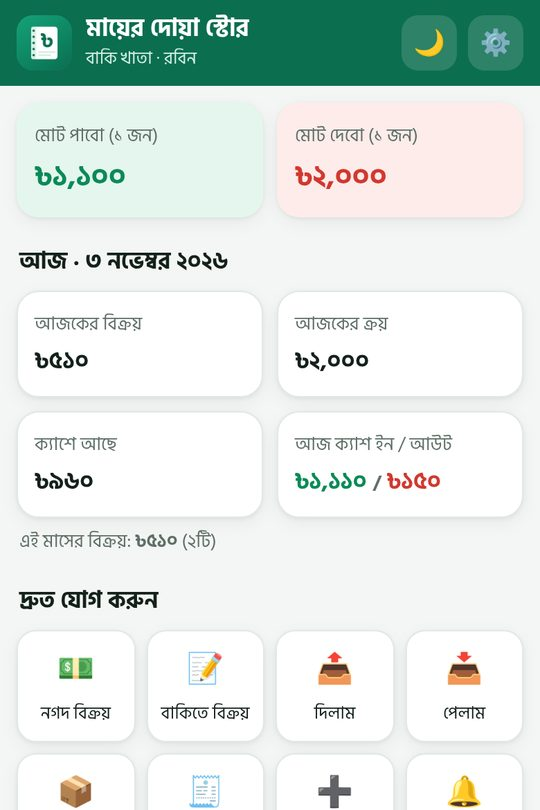
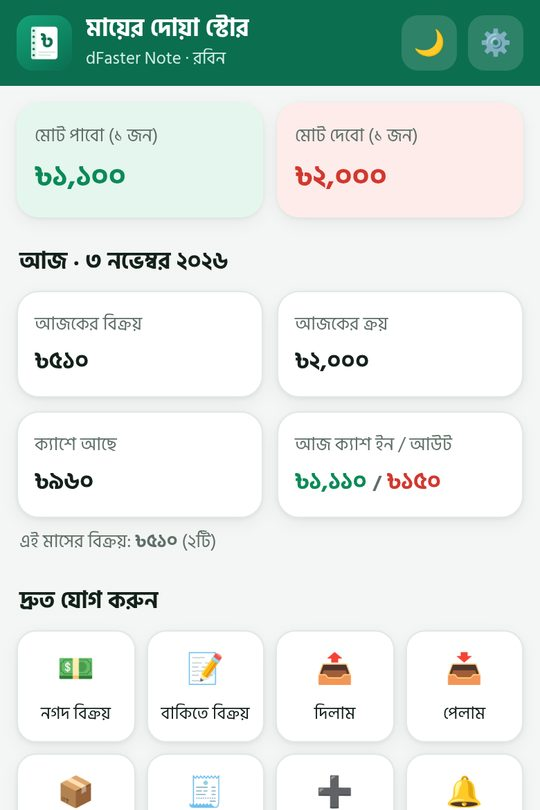
Rename Baki Khata card to dFaster Note; mention login + cloud sync

diff --git a/script.js b/script.js
@@ -24,8 +24,8 @@ const BN = {
   "work.live": "লাইভ সাইট দেখুন", "work.code": "সোর্স কোড",
   "work2.badge": "নতুন · Android অ্যাপ", "work2.t": "নামাজের সময়, কুরআন ও হাদিস", "work2.apk": "APK ডাউনলোড",
   "work2.p": "বাংলা নামাজ অ্যাপ: ৬৪ জেলার ওয়াক্তের লাইভ সময়, প্রতি ওয়াক্তে পূর্ণ আযানের অডিও, সম্পূর্ণ কুরআন (১১৪ সূরা বাংলা অর্থ ও তেলাওয়াতসহ), নামাজ বিষয়ক ১,৫০০+ সহীহ হাদিস, আর কোন সময় কোন সূরা পড়বেন তার গাইড। অফলাইনেও চলে।",
-  "work3.badge": "নতুন · Android অ্যাপ", "work3.t": "বাকি খাতা — দোকানের ডিজিটাল হিসাব",
-  "work3.p": "টালি খাতার মতো বাংলা হিসাব অ্যাপ: কাস্টমার ও সাপ্লায়ারের বাকি, নগদ/বাকি বেচাকেনা, খরচসহ দৈনিক ক্যাশবক্স, PDF রিপোর্ট, আর SMS বা WhatsApp-এ বাকির তাগাদা। PIN লক ও ব্যাকআপ। পুরোপুরি অফলাইনে চলে।",
+  "work3.badge": "নতুন · Android অ্যাপ", "work3.t": "dFaster Note — দোকানের ডিজিটাল হিসাব",
+  "work3.p": "টালি খাতার মতো বাংলা হিসাব অ্যাপ: কাস্টমার ও সাপ্লায়ারের বাকি, নগদ/বাকি বেচাকেনা, খরচসহ দৈনিক ক্যাশবক্স, PDF রিপোর্ট, আর SMS বা WhatsApp-এ বাকির তাগাদা। ফোন নম্বর + পাসওয়ার্ড বা Google দিয়ে লগইন, ক্লাউড সিঙ্ক — নতুন ফোনে লগইন করলেই সব হিসাব ফিরে আসে। অফলাইনেও চলে।",
   "ct.k": "যোগাযোগ", "ct.h": "চলুন আপনার পরের ওয়েবসাইটটা বানাই", "ct.p": "আপনার প্রজেক্টের কথা WhatsApp-এ জানান। সাধারণত দ্রুত উত্তর দিই।", "ct.wa": "WhatsApp",
   "foot": "ওয়েব ডেভেলপার, বাংলাদেশ", "top": "উপরে যান ↑"
 };

diff --git a/index.html b/index.html
@@ -202,19 +202,19 @@
           </div>
         </article>
         <article class="project rv">
-          <a class="project__shot" href="https://dfaster.com/bakikhata/" target="_blank" rel="noopener" aria-label="Open Baki Khata app page">
+          <a class="project__shot" href="https://dfaster.com/bakikhata/" target="_blank" rel="noopener" aria-label="Open dFaster Note app page">
             <div class="phone">
               <picture>
                 <source srcset="img/bakikhata-app.webp" type="image/webp" />
-                <img src="img/bakikhata-app.jpg" width="540" height="810" alt="Baki Khata shop ledger app screenshot" loading="lazy" decoding="async" />
+                <img src="img/bakikhata-app.jpg" width="540" height="810" alt="dFaster Note shop ledger app screenshot" loading="lazy" decoding="async" />
               </picture>
             </div>
           </a>
           <div class="project__body">
             <span class="badge" data-i18n="work3.badge">New · Android app</span>
-            <h3 data-i18n="work3.t">Baki Khata — digital shop ledger</h3>
-            <p data-i18n="work3.p">A TallyKhata-style Bangla ledger app for shopkeepers: customer and supplier dues, cash and credit sales and purchases, a daily cashbox with expenses, reports with PDF export, and SMS or WhatsApp due reminders. PIN lock and backup. Works fully offline.</p>
-            <ul class="tags"><li>Android</li><li>Capacitor</li><li>IndexedDB</li><li>বাংলা</li></ul>
+            <h3 data-i18n="work3.t">dFaster Note — digital shop ledger</h3>
+            <p data-i18n="work3.p">A TallyKhata-style Bangla ledger app for shopkeepers: customer and supplier dues, cash and credit sales and purchases, a daily cashbox with expenses, reports with PDF export, and SMS or WhatsApp due reminders. Login with phone + password or Google, and cloud sync that restores everything on a new phone. Works offline.</p>
+            <ul class="tags"><li>Android</li><li>Capacitor</li><li>Firebase</li><li>বাংলা</li></ul>
             <div class="row">
               <a class="btn btn--pri" href="https://github.com/mdrbnbd/bakikhata/releases/latest/download/bakikhata.apk" rel="noopener"><span data-i18n="work2.apk">Download APK</span> ⬇</a>
               <a class="btn btn--ghost" href="https://dfaster.com/bakikhata/" target="_blank" rel="noopener"><span data-i18n="work.live">Visit live site</span> ↗</a>
